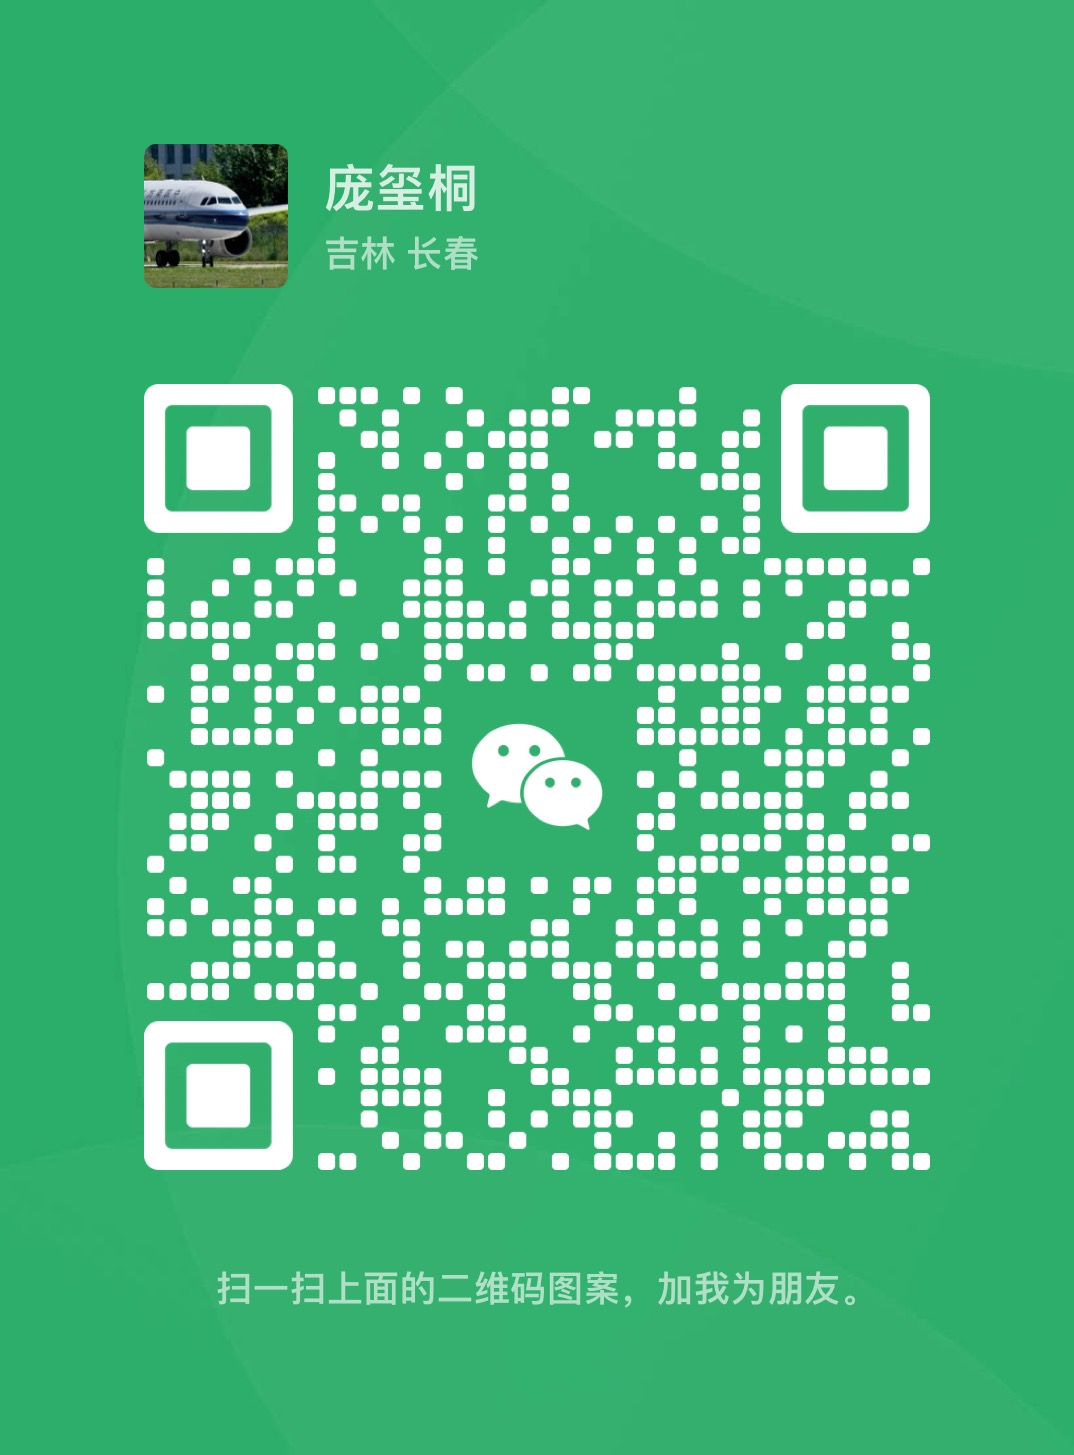
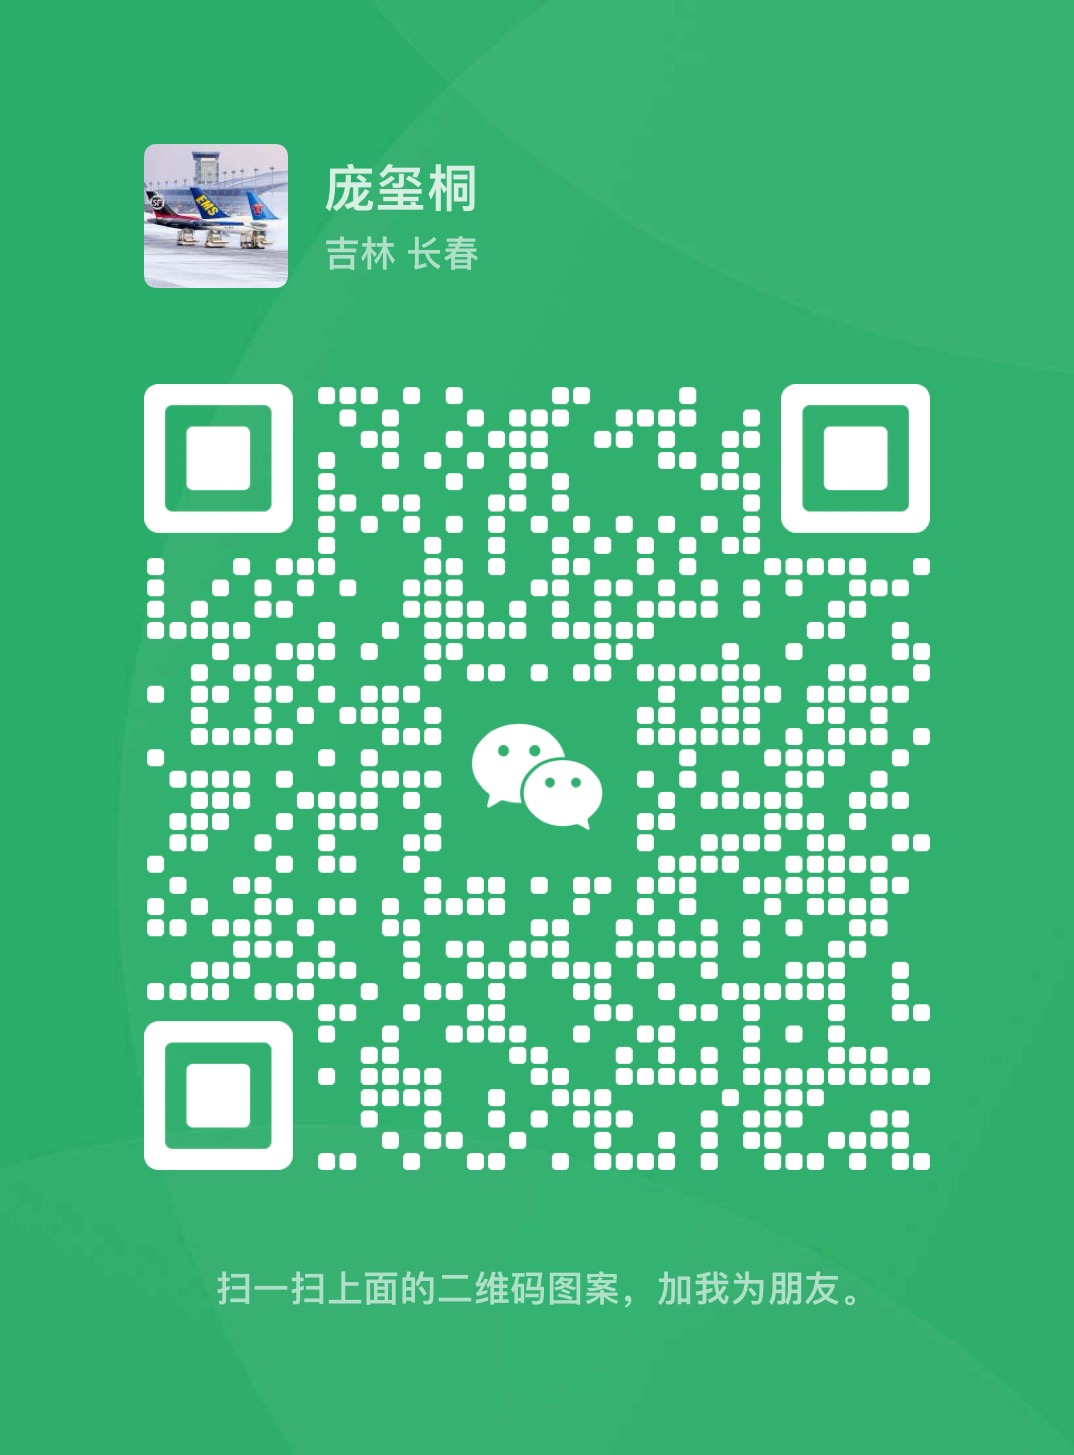
赞助

Changed region(s): [[0.1229, 0.0928, 0.2765, 0.2165]]

diff --git a/index.html b/index.html
@@ -949,30 +949,30 @@ margin属性用于设置元素的外边距
   </div>
 </div>
 <br>
-<!--赞助售卖
+<!--赞助售卖-->
 <center>
 <div class="homepage-section homepage-section-category-hero-four element"style="max-width:1200px;text-align: left">
   <hr style="border-top: 5px solid black;max-width: 1200px;align-items: center;">
-  <h2 class="h6-mktg section-heading">赞助售卖</h2>
+  <h2 class="h6-mktg section-heading">赞助</h2>
   <hr style="height: 1px;max-width: 1200px;align-items: center;">
 
   <article class="py-4 d-flex flex-column flex-md-row">
-    <a href="https://afdian.net/a/PangXitong" class="d-block col-12 position-relative rounded-2 mb-4 mb-md-0 overflow-hidden tease-thumbnail mr-md-4">
+    <a href="./blog/images/支付宝.JPG" class="d-block col-12 position-relative rounded-2 mb-4 mb-md-0 overflow-hidden tease-thumbnail mr-md-4">
       <svg aria-hidden="true" width="1032" height="548" class="width-full height-auto d-block" style="visibility: hidden; pointer-events: none;"></svg>
-      <img src="./blog/images/C919.jpg" width="800" height="425" class="d-block width-full height-auto rounded-2 tease-thumbnail__img cover-image" loading="lazy" decoding="async" />
+      <img src="./blog/images/IMG_3516.jpg" width="800" height="425" class="d-block width-full height-auto rounded-2 tease-thumbnail__img cover-image" loading="lazy" decoding="async" />
     </a>
     <div class="col-12 tease-text ml-md-4">
       <h3 class="h3-mktg h3-alt-2-mktg mb-12px mt-md-4">
-        <a href="https://afdian.net/a/PangXitong" class="Link--primary">爱发电</a>
+        <a href="./blog/images/支付宝.JPG" class="Link--primary">赞助</a>
       </h3>
-      <p class="f4-mktg color-fg-muted">庞玺桐用爱发电平台进行赞户支持、作品使用权售卖<br>点击此处进入庞玺桐的爱发电主页</p>
+      <a href="./blog/images/支付宝.JPG"><p class="f4-mktg color-fg-muted">如果我的项目、网站或Minecraft服务器服务对你有帮助，您可以在此对我进行捐助，您的捐助对我有很大帮助，谢谢！</p></a>
       <div class="mt-14px">
         <div class="d-flex flex-items-center">
-          <a href="https://afdian.net/a/PangXitong" class="d-inline-block post-author-avatar post-author-avatar-last mr-14px">
-            <img src="https://static.afdiancdn.com/static/img/icons/apple-touch-icon-60x60.png" class="d-block circle byline__photo--recirc" width="40" height="40" />
+          <a href="./blog/images/支付宝.JPG" class="d-inline-block post-author-avatar post-author-avatar-last mr-14px">
+            <img src="./blog/images/zfb.jpeg" class="d-block circle byline__photo--recirc" width="40" height="40" />
           </a>
           <div class="d-flex flex-items-end flex-wrap" style="margin-top: -4px">
-            <span class="authors-wrap mr-12px mt-1 f5-mktg text-bold"><a class="d-inline-block Link--primary color-fg-default" href="https://afdian.net/a/PangXitong" title="Nick Floyd">PangXitong</a></span>
+            <span class="authors-wrap mr-12px mt-1 f5-mktg text-bold"><a class="d-inline-block Link--primary color-fg-default" href="./blog/images/支付宝.JPG" title="Nick Floyd">PangXitong</a></span>
             <time datetime="2024-01-03" class="d-inline-block f5-mktg text-mono color-fg-muted mt-1"> February 7, 2024</time>
           </div>
         </div>
@@ -983,22 +983,22 @@ margin属性用于设置元素的外边距
   <div class="d-flex flex-wrap flex-items-start gutter-spacious">
     <article class="py-4 d-flex flex-column flex-md-row-reverse flex-items-start flex-wrap col-12 col-md-6">
       <div class="col-12 border-top mt-n4 mb-4"></div>
-      <a href="https://afdian.net/order/create?user_id=c7a8de905ef511eda0cd52540025c377&remark=" class="d-block col-12 position-relative rounded-2 mb-4 overflow-hidden tease-thumbnail col-md-3">
+      <a href="https://mc.oldsai.cn" class="d-block col-12 position-relative rounded-2 mb-4 overflow-hidden tease-thumbnail col-md-3">
         <svg aria-hidden="true" width="152" height="152" class="width-full height-auto d-none d-md-block" style="visibility: hidden; pointer-events: none;"></svg>
         <svg aria-hidden="true" width="1032" height="548" class="width-full height-auto d-block d-md-none" style="visibility: hidden; pointer-events: none;"></svg>
-        <img src="https://static.afdiancdn.com/static/img/icons/apple-touch-icon-60x60.png" width="200" height="200" class="d-none d-md-block width-full height-auto rounded-2 tease-thumbnail__img cover-image" loading="lazy" decoding="async" />
-        <img src="https://static.afdiancdn.com/static/img/icons/apple-touch-icon-60x60.png" width="800" height="425" class="d-block d-md-none width-full height-auto rounded-2 tease-thumbnail__img cover-image" loading="lazy" decoding="async" />
+        <img src="https://mc.oldsai.cn/images/union.jpeg" width="200" height="200" class="d-none d-md-block width-full height-auto rounded-2 tease-thumbnail__img cover-image" loading="lazy" decoding="async" />
+        <img src="https://mc.oldsai.cn/images/union.jpeg" width="800" height="425" class="d-block d-md-none width-full height-auto rounded-2 tease-thumbnail__img cover-image" loading="lazy" decoding="async" />
       </a>
       <div class="col-12 col-md-9 pr-md-4 tease-text">
         <h3 class="h6-mktg mb-2">
-          <a href="https://afdian.net/order/create?user_id=c7a8de905ef511eda0cd52540025c377&remark=" class="Link--primary">自选金额赞助</a>
+          <a href="https://mc.oldsai.cn" class="Link--primary">Minecraft服务器</a>
         </h3>
-        <p class="f4-mktg color-fg-muted">如果你认为我的博客对您有帮助，您可以在此选择金额赞助我&hellip;</p>
+        <p class="f4-mktg color-fg-muted">我运营着一个Minecraft服务器。</p>
         <div class="mt-12px">
           <div class="d-flex flex-items-center">
             <div class="d-flex flex-items-end flex-wrap" style="margin-top: -4px">
               <span class="authors-wrap mr-12px mt-1 f5-mktg text-bold">
-                <a class="d-inline-block Link--primary color-fg-default" href="https://afdian.net/order/create?user_id=c7a8de905ef511eda0cd52540025c377&remark=" title="Michelle Mannering">PangXitong</a>
+                <a class="d-inline-block Link--primary color-fg-default" href="https://mc.oldsai.cn" title="Michelle Mannering">PangXitong</a>
               </span>
               <time datetime="2023-12-19" class="d-inline-block f5-mktg text-mono color-fg-muted mt-1"> February 7, 2024</time>
             </div>
@@ -1009,22 +1009,22 @@ margin属性用于设置元素的外边距
       
     <article class="py-4 d-flex flex-column flex-md-row-reverse flex-items-start flex-wrap col-12 col-md-6">
       <div class="col-12 border-top mt-n4 mb-4"></div>
-      <a href="https://afdian.net/order/create?plan_id=72b2b13087dc11ed89bb52540025c377&product_type=0&remark=" class="d-block col-12 position-relative rounded-2 mb-4 overflow-hidden tease-thumbnail col-md-3">
+      <a href="https://github.com/PangXitong" class="d-block col-12 position-relative rounded-2 mb-4 overflow-hidden tease-thumbnail col-md-3">
         <svg aria-hidden="true" width="152" height="152" class="width-full height-auto d-none d-md-block" style="visibility: hidden; pointer-events: none;"></svg>
         <svg aria-hidden="true" width="1032" height="548" class="width-full height-auto d-block d-md-none" style="visibility: hidden; pointer-events: none;"></svg>
-        <img src="https://pic1.afdiancdn.com/static/img/afd-icon-guide@2x.png?imageView2/1/w/386/h/352" width="200" height="200" class="d-none d-md-block width-full height-auto rounded-2 tease-thumbnail__img cover-image" loading="lazy" decoding="async" />
-        <img src="https://pic1.afdiancdn.com/static/img/afd-icon-guide@2x.png?imageView2/1/w/386/h/352" width="800" height="425" class="d-block d-md-none width-full height-auto rounded-2 tease-thumbnail__img cover-image" loading="lazy" decoding="async" />
+        <img src="./blog/images/GitHub.png" width="200" height="200" class="d-none d-md-block width-full height-auto rounded-2 tease-thumbnail__img cover-image" loading="lazy" decoding="async" />
+        <img src="./blog/images/GitHub.png" width="800" height="425" class="d-block d-md-none width-full height-auto rounded-2 tease-thumbnail__img cover-image" loading="lazy" decoding="async" />
       </a>
       <div class="col-12 col-md-9 pr-md-4 tease-text">
         <h3 class="h6-mktg mb-2">
-          <a href="https://afdian.net/order/create?plan_id=72b2b13087dc11ed89bb52540025c377&product_type=0&remark=" class="Link--primary">￥5.00/月持续赞助</a>
+          <a href="https://github.com/PangXitong" class="Link--primary">GitHub项目</a>
         </h3>
-        <p class="f4-mktg color-fg-muted">您也可以选择￥5.00/月对我持续进行赞助</p>
+        <p class="f4-mktg color-fg-muted">我在GitHub有很多开源项目。</p>
         <div class="mt-12px">
           <div class="d-flex flex-items-center">
             <div class="d-flex flex-items-end flex-wrap" style="margin-top: -4px">
               <span class="authors-wrap mr-12px mt-1 f5-mktg text-bold">
-                <a class="d-inline-block Link--primary color-fg-default" href="https://afdian.net/order/create?plan_id=72b2b13087dc11ed89bb52540025c377&product_type=0&remark=" title="Sidney Espinosa">PangXitong</a>
+                <a class="d-inline-block Link--primary color-fg-default" href="https://github.com/PangXitong" title="Sidney Espinosa">PangXitong</a>
               </span>
               <time datetime="2023-11-21" class="d-inline-block f5-mktg text-mono color-fg-muted mt-1"> February 7, 2024</time>
             </div>
@@ -1035,22 +1035,22 @@ margin属性用于设置元素的外边距
           
     <article class="py-4 d-flex flex-column flex-md-row-reverse flex-items-start flex-wrap col-12 col-md-6">
       <div class="col-12 border-top mt-n4 mb-4"></div>
-      <a href="https://afdian.net/a/PangXitong" class="d-block col-12 position-relative rounded-2 mb-4 overflow-hidden tease-thumbnail col-md-3">
+      <a href="https://mc.oldsai.cn" class="d-block col-12 position-relative rounded-2 mb-4 overflow-hidden tease-thumbnail col-md-3">
         <svg aria-hidden="true" width="152" height="152" class="width-full height-auto d-none d-md-block" style="visibility: hidden; pointer-events: none;"></svg>
         <svg aria-hidden="true" width="1032" height="548" class="width-full height-auto d-block d-md-none" style="visibility: hidden; pointer-events: none;"></svg>
-        <img src="./blog/images/airforce.jpg" width="200" height="200" class="d-none d-md-block width-full height-auto rounded-2 tease-thumbnail__img cover-image" loading="lazy" decoding="async" />
-        <img src="./blog/images/airforce.jpg" width="800" height="425" class="d-block d-md-none width-full height-auto rounded-2 tease-thumbnail__img cover-image" loading="lazy" decoding="async" />
+        <img src="./blog/Pricing/tool.png" width="200" height="200" class="d-none d-md-block width-full height-auto rounded-2 tease-thumbnail__img cover-image" loading="lazy" decoding="async" />
+        <img src="./blog/Pricing/tool.png" width="800" height="425" class="d-block d-md-none width-full height-auto rounded-2 tease-thumbnail__img cover-image" loading="lazy" decoding="async" />
       </a>
       <div class="col-12 col-md-9 pr-md-4 tease-text">
         <h3 class="h6-mktg mb-2">
-          <a href="https://afdian.net/a/PangXitong" class="Link--primary">航展照片使用权售卖</a>
+          <a href="./blog/tool/ToolList.html" class="Link--primary">工具列表</a>
         </h3>
-        <p class="f4-mktg color-fg-muted">点击链接进入爱发电主页，往下翻就有“照片使用权（2023长春空军航空展）”售卖板块</p>
+        <p class="f4-mktg color-fg-muted">我开发了很多的小工具。</p>
         <div class="mt-12px">
           <div class="d-flex flex-items-center">
             <div class="d-flex flex-items-end flex-wrap" style="margin-top: -4px">
               <span class="authors-wrap mr-12px mt-1 f5-mktg text-bold">
-                <a class="d-inline-block Link--primary color-fg-default" href="https://afdian.net/a/PangXitong" title="Taylor Blau">PangXitong</a>
+                <a class="d-inline-block Link--primary color-fg-default" href="./blog/tool/ToolList.html" title="Taylor Blau">PangXitong</a>
               </span>
               <time datetime="2023-11-20" class="d-inline-block f5-mktg text-mono color-fg-muted mt-1"> February 7, 2024</time>
             </div>
@@ -1061,7 +1061,7 @@ margin属性用于设置元素的外边距
             
     <article class="py-4 d-flex flex-column flex-md-row-reverse flex-items-start flex-wrap col-12 col-md-6">
       <div class="col-12 border-top mt-n4 mb-4"></div>
-      <a href="https://500px.com.cn/pangxitong" class="d-block col-12 position-relative rounded-2 mb-4 overflow-hidden tease-thumbnail col-md-3">
+      <a href="./blog/photos.html" class="d-block col-12 position-relative rounded-2 mb-4 overflow-hidden tease-thumbnail col-md-3">
         <svg aria-hidden="true" width="152" height="152" class="width-full height-auto d-none d-md-block" style="visibility: hidden; pointer-events: none;"></svg>
         <svg aria-hidden="true" width="1032" height="548" class="width-full height-auto d-block d-md-none" style="visibility: hidden; pointer-events: none;"></svg>
         <img src="./blog/images/IMG_4235.JPG" width="200" height="200" class="d-none d-md-block width-full height-auto rounded-2 tease-thumbnail__img cover-image" loading="lazy" decoding="async" />
@@ -1069,13 +1069,13 @@ margin属性用于设置元素的外边距
       </a>
       <div class="col-12 col-md-9 pr-md-4 tease-text">
         <h3 class="h6-mktg mb-2">
-          <a href="https://500px.com.cn/pangxitong" class="Link--primary">视觉中国</a>
+          <a href="./blog/photos.html" class="Link--primary">摄影作品</a>
         </h3>
-        <p class="f4-mktg color-fg-muted">我的照片也在视觉中国售卖使用权</p>
+        <p class="f4-mktg color-fg-muted">我的摄影作品在此展出。</p>
         <div class="mt-12px">
           <div class="d-flex flex-items-center">
             <div class="d-flex flex-items-end flex-wrap" style="margin-top: -4px">
-              <span class="authors-wrap mr-12px mt-1 f5-mktg text-bold"><a class="d-inline-block Link--primary color-fg-default" href="https://500px.com.cn/pangxitong" title="Lee Reilly">PangXitong</a></span>
+              <span class="authors-wrap mr-12px mt-1 f5-mktg text-bold"><a class="d-inline-block Link--primary color-fg-default" href="./blog/photos.html" title="Lee Reilly">PangXitong</a></span>
               <time datetime="2023-11-01" class="d-inline-block f5-mktg text-mono color-fg-muted mt-1"> May 19, 2024</time>
             </div>
           </div>
@@ -1084,7 +1084,7 @@ margin属性用于设置元素的外边距
     </article>
   </div>
 </div>
-</center>  -->
+</center>  
     
 
 
